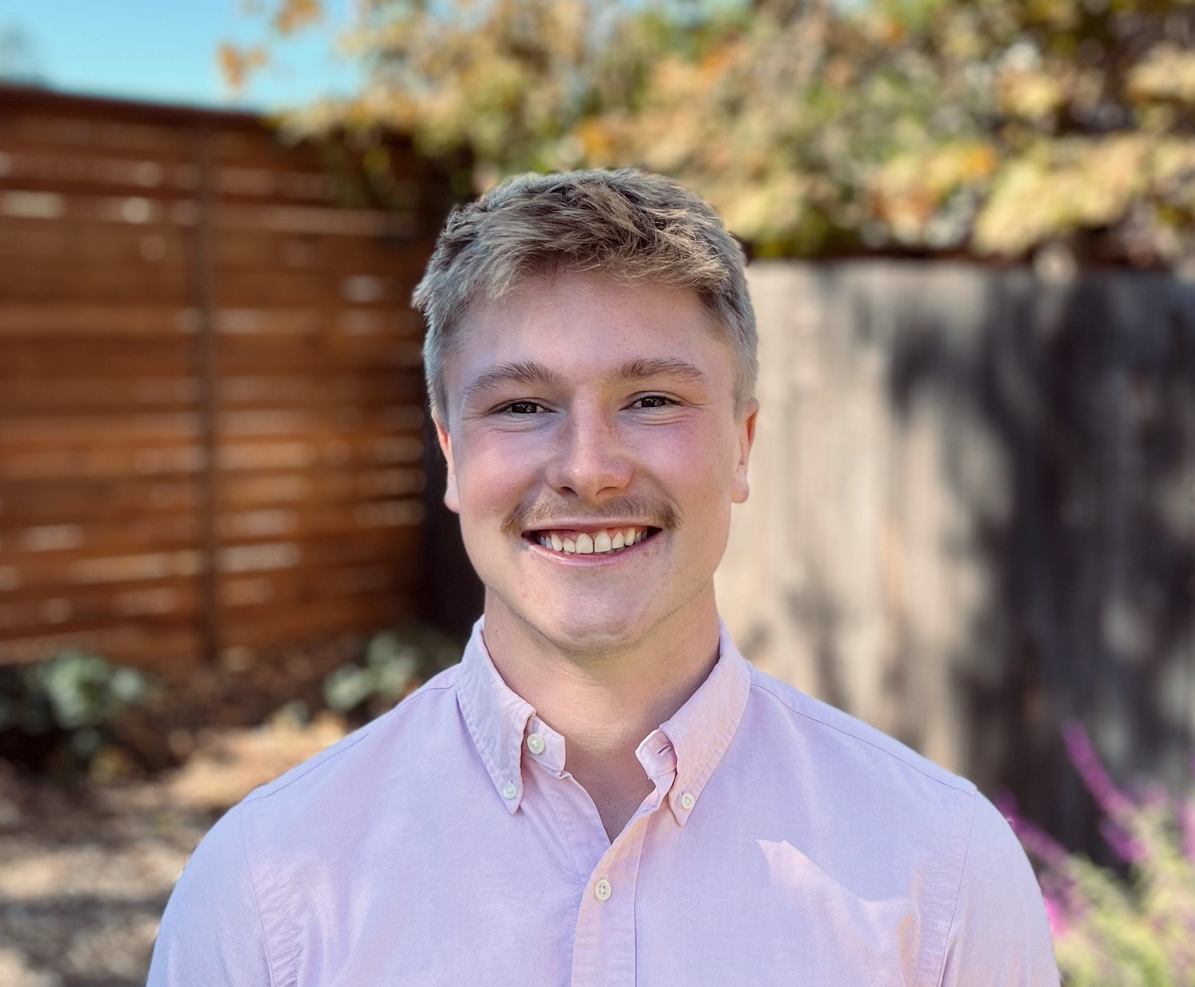
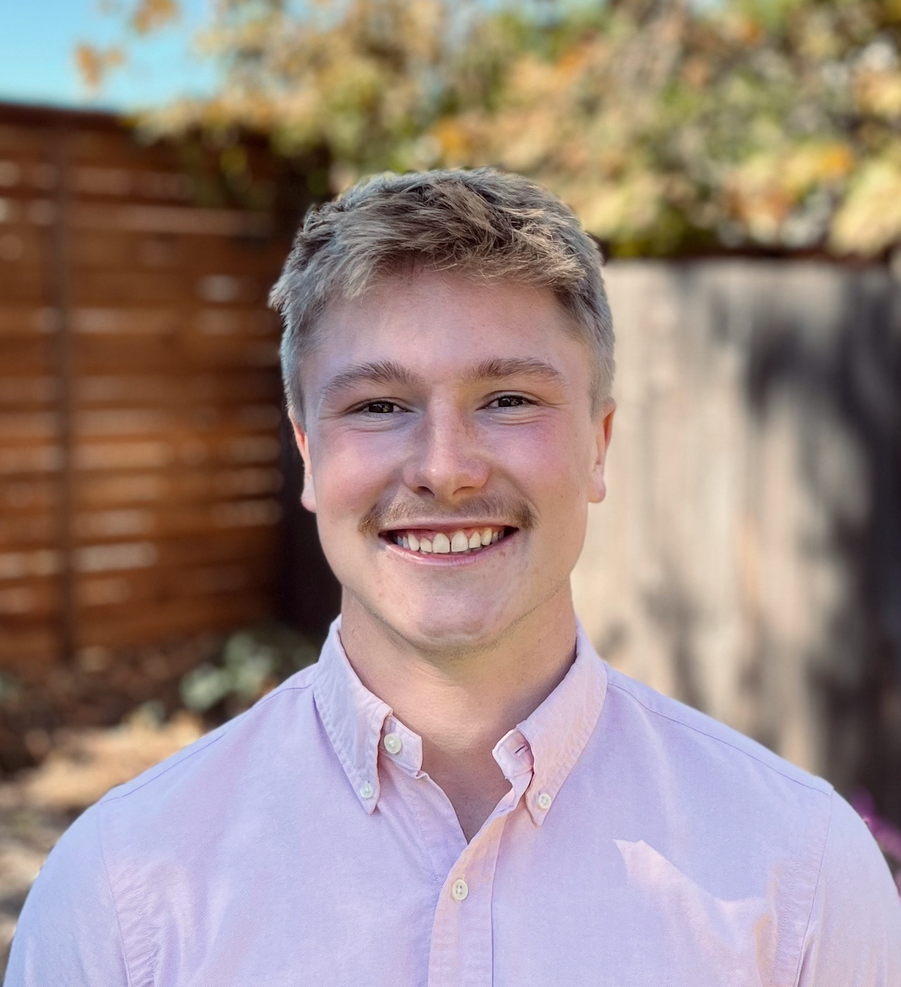
updated the top half and added the resume

diff --git a/styles.css b/styles.css
@@ -42,6 +42,7 @@
     margin-bottom: 40px;
   }
   
+
   .logo {
     height: 60px;
     width: 90px;
@@ -85,18 +86,19 @@
    }
 
   .profile-section {
+    margin-top: 120px;
     display: flex;
     align-items: center;
 }
 
   .portrait-image {
-    display: block;
-    margin: 0 auto;
-    max-width: 70%; /* Set the image to take roughly half the page */
-    width: auto;
-    height: auto;
-    max-height: 50vh; /* Limit image height to half the viewport height */
-    box-shadow: 0 4px 6px rgba(0, 0, 0, 0.5); /* Shadow effect */
+    width: 100%; /* Adjust the width as needed */
+    max-width: 600px; /* Set a maximum width to control image size */
+    height: auto; /* Maintain aspect ratio */
+    display: block; /* Remove any extra spacing or margins */
+    margin: 0 auto; /* Center the image horizontally */
+    margin-left: 20px;
+    box-shadow: 0 0 10px rgba(0, 0, 0, 0.5); /* Add a subtle shadow */
   }
 
 
@@ -113,45 +115,22 @@
     display: flex;
     align-items: center;
     justify-content: center;
-}
-
-  .link-container a {
-    outline: 0;
-    border: 0;
-    font-weight: 600;
-    color: black;
-    font-size: 16px;
-    text-align: center;
-    height: 38px;
-    padding: 8px 24px;
-    border-radius: 50px;
-    background-image: linear-gradient(180deg, #fff, #f5f5fa);
-    box-shadow: 0 4px 11px 0 rgb(37 44 97 / 15%), 0 1px 3px 0 rgb(93 100 148 / 20%);
-    transition: all 0.2s ease-out;
-    text-decoration: none;
-    display: flex;
-    align-items: center;
-    justify-content: center;
-    line-height: 1;
   }
-
-  .link-container:active {
-    position: relative;
-    top: -5px; 
-  }
-
-  .link-container a:hover {
-    box-shadow: 0 8px 22px 0 rgb(37 44 97 / 15%), 0 4px 6px 0 rgb(93 100 148 / 20%);
-  }
-
-  .divider {
-    width: 40%;
-    border-top: 2px solid var(--cg-black); /* Adjust color and thickness as needed */
+  .location{
+    margin-top: 1px;
   }
 
   .intro-title{
     text-align: center;
-    margin-top: 100px;
+  }
+
+  .profile-info {
+    margin-left: 40px;
+    text-align: center; /* Center the text content horizontally */
+    display: flex;
+    flex-direction: column;
+    align-items: center; /* Center the entire content vertically */
+    justify-content: center; /* Center the entire content horizontally */
   }
 
   .intro{
@@ -161,20 +140,40 @@
   }
 
   .location-container {
+    text-align: center;
     display: flex;
-    align-items: center;
-}
+    margin-top: 5px;
+  }
 
-.location {
-    width: 30px;
-    height: 30px;
-}
+  .seattle {
+    margin-left: 10px;
+    margin-top: 7px; 
+  }
 
-.seattle {
-    margin-left: 10px; 
-}
+  .location {
+      width: 30px;
+      height: 30px;
+  }
+
+  .resume a{
+    margin-top:20px;
+    text-decoration: none; 
+    background-color: #333; 
+    color: #fff; 
+    padding: 5px 5px; 
+    border-radius: 5px;  
+    display: inline-block; 
+    transition: background-color 0.3s;
+  
+  }
+  
+  .resume a:hover {
+    background-color: #555; 
+  }
+  
+
   .campus-pic{
-    margin-top: 100px;
+    margin-top: 300px;
     width: 100%;
     max-width: 800px; 
     height: 1%;
@@ -193,6 +192,8 @@
 
   .coursework {
     font-size: 16px;
+    margin-bottom: 200px;
+
   }
   /* CSS for portfolio grid */
 

diff --git a/index.html b/index.html
@@ -27,20 +27,25 @@
     
     </nav>
     <main>
-        <h1 class="page-title">Hi, I'm Noa </h1>
-        <div class="profile-section">
-          <div class="profile-pic">
-              <img class="portrait-image" src="pictures/pp.jpeg" alt="Profile Picture">
+      <div class="profile-section">
+        <div class="profile-pic">
+          <img class="portrait-image" src="pictures/pp.jpeg" alt="Profile Picture">
+        </div>
+        <div class="profile-info">
+          <h1 class="intro-title">Hi, my name is Noa Kehle</h1>
+          <p class="intro">
+            I'm a 3rd year student at Cal Poly studying Computer Science, interested in cybersecurity and machine learning.
+          </p>
+          <div class="location-container">
+            <img class="location" src="pictures/location.png" alt="location">
+            <h4 class="seattle">Seattle, WA</h4>
           </div>
+          <div class="resume">
+            <a href="pictures/NoaKehle-Resume.pdf" class="resume" download>Download Resume</a>
+          </div>
+        </div>  
       </div>
-      </div>
-      <h1 class="intro-title"> Who I am</h1>
-      <div class="divider"></div>
-      <p class ="intro">I'm a 3rd year student at Cal Poly studying Computer Science, interested in cybersecurity and machine learning. </p>    
-      <div class="location-container">
-        <img class="location" src="pictures/location.png" alt="location">
-        <h4 class="seattle">Seattle, WA</h4>
-      </div>
+      
       <img class="campus-pic" src="pictures/Calpoly.jpeg" alt="Cal Poly">
       <div class="education">
         <h1>My Education</h1>
